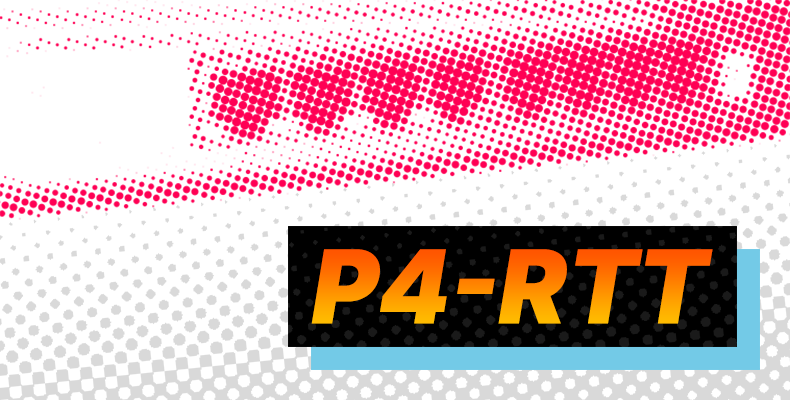
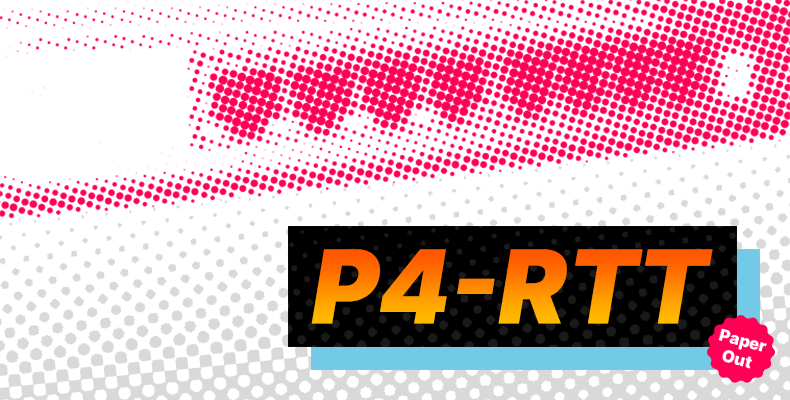
Add Education section and link to P4-RTT paper

Changed region(s): [[0.881, 0.78, 1.0, 0.96]]

diff --git a/index.html b/index.html
@@ -31,9 +31,9 @@
         <div id="main">
           <div class="section">
             <div class="heading">
-              <img src="img/star.png" class="icon" />
+              <img src="img/folder.png" class="icon" />
               <span class="title">
-                Featured work
+                Research
               </span>
             </div>
             <div class="row">
@@ -43,13 +43,10 @@
 
           <div class="section">
             <div class="heading">
-              <img src="img/yl.png" class="icon" />
+              <img src="img/phone.png" class="icon" />
               <span class="title">
-                Yearbook Labs
+                Fun Stuff
               </span>
-              <a href="http://yearbooklabs.com" target="_blank">
-                <img src="img/export.png" id="export" />
-              </a>
             </div>
             <div class="row">
               <img src="img/gradforms.png" class="medium" id="gradforms" /><img src="img/messenger.png" class="medium" id="messenger" /><img src="img/meteowear.png" class="medium" id="meteowear" />
@@ -57,18 +54,31 @@
             <div class="row">
               <img src="img/availability.png" class="medium" id="availability" /><img src="img/meat.png" class="medium" id="meat" /><img src="img/dropcalc.png" class="medium" id="dropcalc" />
             </div>
+            <div class="row">
+              <img src="img/wonderdroid.png" class="medium" id="wonderdroid" /><img src="img/aus.png" class="medium" id="aus" />
+            </div>
           </div>
 
           <div class="section">
             <div class="heading">
-              <img src="img/folder.png" class="icon" />
+              <img src="img/book.png" class="icon" />
               <span class="title">
-                More projects
+                Education
               </span>
             </div>
-            <div class="row">
-              <img src="img/wonderdroid.png" class="medium" id="wonderdroid" /><img src="img/aus.png" class="medium" id="aus" /><!--<img src="img/mus.png" class="medium" id="mus" /><img src="img/fyc.png" class="medium" id="fyc" />--><img src="img/mrclancy.png" class="medium" id="mrclancy" />
-            </div>
+            <ul>
+              <li>MSc Applied Computing, University of Toronto (2016 to 2018)</li>
+              <li>BSc Neuroscience, Computer Science Minor, McGill University (2012 to 2016)</li>
+              <li>
+                Courses I have TA'd:
+                <ul>
+                  <li>COS 324 Fall 2020 (Princeton University): Introduction to Machine Learning</li>
+                  <li>COS 484 Fall 2019 (Princeton University): Natural Language Processing</li>
+                  <li>CSC401 Winter 2018 (University of Toronto): Natural Language Computing</li>
+                  <li>CSC309 Winter 2017 (University of Toronto): Programming on the Web</li>
+                </ul>
+              </li>
+            </ul>
           </div>
 
           <div id="footer">
@@ -120,7 +130,7 @@
                 url = "http://yearbooklabs.com/dropcalc/"
                 break
               case "wonderdroid":
-                message = "Based on WonderDroid, WonderDroid X is an open-source WonderSwan Color (WSC) emulator for Android. It has been downloaded over 20,000 times and is, to my knowledge, the most popular standalone WSC emulator on Android. (2018)"
+                message = "Based on WonderDroid, WonderDroid X is an open-source WonderSwan Color (WSC) emulator for Android. It has been downloaded over 50,000 times and is, to my knowledge, the most popular standalone WSC emulator on Android. (2018)"
                 url = "https://play.google.com/store/apps/details?id=com.atelieryl.wonderdroid"
                 break
               case "mus":
@@ -136,7 +146,7 @@
                 url = "http://mrclancy.ca/"
                 break
               case "p4rtt":
-                message = "P4-RTT runs on P4 programmable network switches to passively measure round trip times (RTT). We use a fast, efficient algorithm that has a low memory footprint, collects real-time RTT data at line rate, and does not contribute to network traffic. (2019 – present)"
+                message = 'P4-RTT runs on P4 programmable network switches to passively measure round trip times (RTT). We use a fast, efficient algorithm that has a low memory footprint, collects real-time RTT data at line rate, and does not contribute to network traffic. (2019 – 2020) <a href="https://dl.acm.org/doi/10.1145/3405669.3405823" target="_blank">Read our SPIN \'20 paper at ACM</a>; copy available on Princeton server via our official website.'
                 url = "https://p4campus.cs.princeton.edu/p4rtt.html"
                 break
             }

diff --git a/css/main.css b/css/main.css
@@ -101,6 +101,10 @@ body {
   font-family: "Trebuchet MS", sans-serif;
 }
 
+li {
+  font-family: "Verdana", sans-serif;
+}
+
 .section {
   margin-bottom: 30px;
 }
